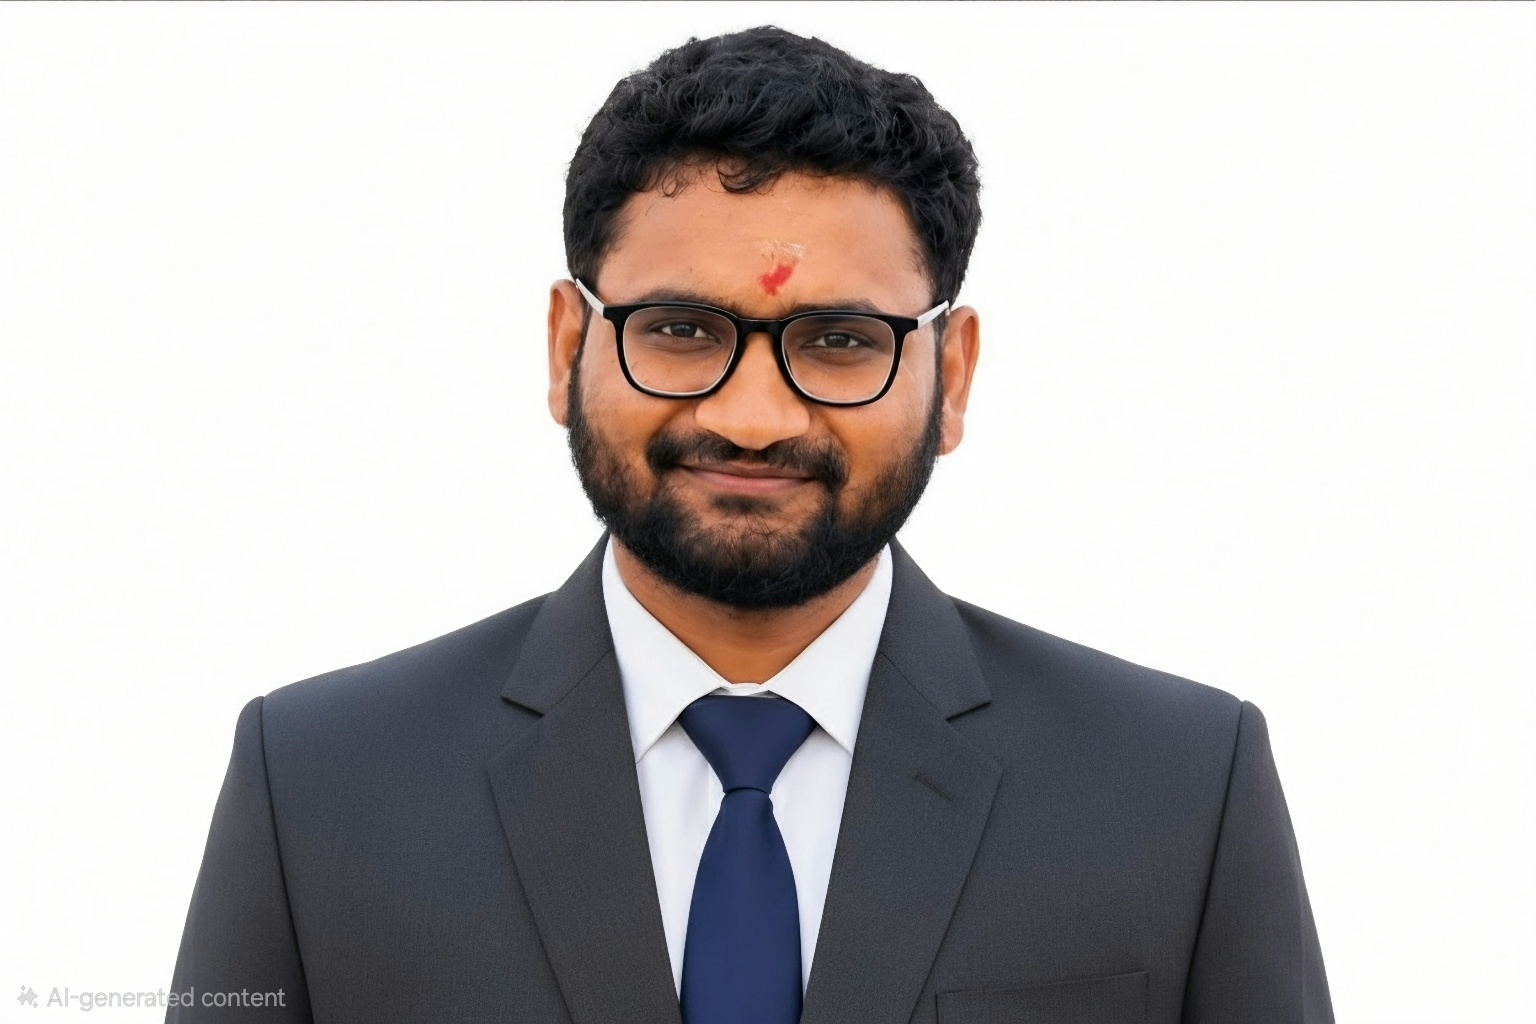
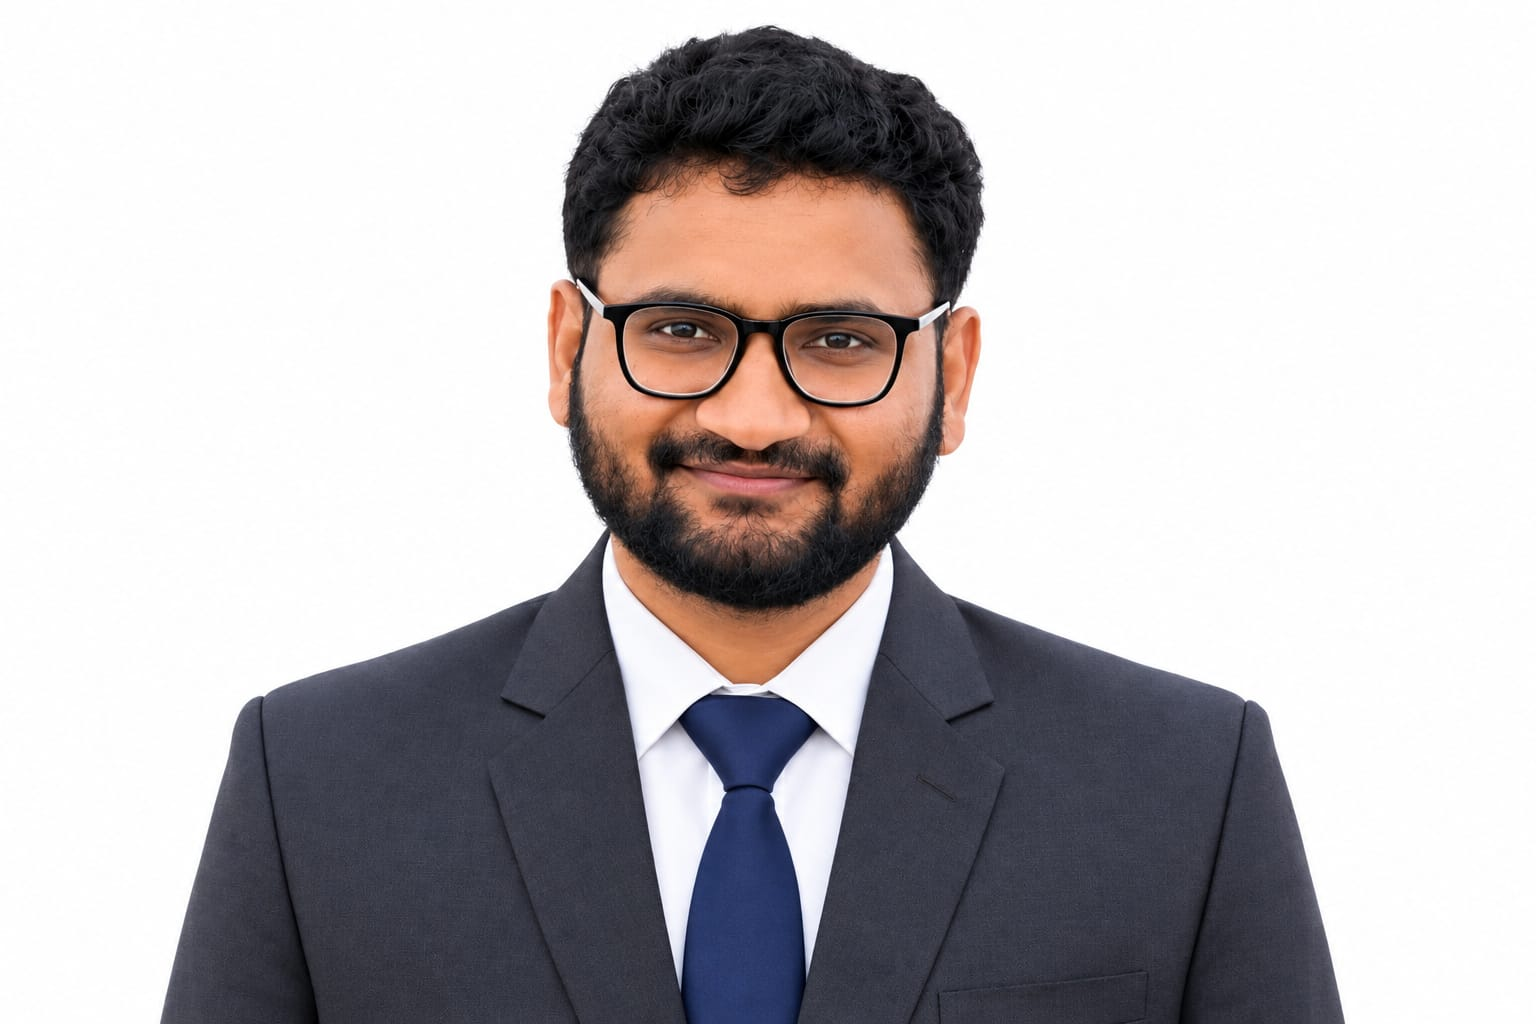
Founder photo -> recent2; remove FSSAI in-process chips from footer

diff --git a/src/components/Footer.jsx b/src/components/Footer.jsx
@@ -21,7 +21,7 @@ export default function Footer() {
               across the Gulf, Europe, North America and Southeast Asia.
             </p>
             <div className="mt-5 flex flex-wrap gap-1.5">
-              {["GST Registered", "IEC · approved", "FSSAI · in process", "WHO-GMP partners"].map((t) => (
+              {["GST Registered", "IEC · approved", "WHO-GMP partners"].map((t) => (
                 <span key={t} className="rounded-md bg-white/5 px-2 py-1 text-[10px] font-bold tracking-wider text-brand-100/70 ring-1 ring-white/10">
                   {t}
                 </span>
@@ -88,7 +88,7 @@ export default function Footer() {
             © {new Date().getFullYear()} {COMPANY.name} (Proprietorship ·
             Telangana). All rights reserved.
           </p>
-          <p>GSTIN {COMPANY.gstin} · IEC approved · FSSAI in process</p>
+          <p>GSTIN {COMPANY.gstin} · IEC approved</p>
         </div>
       </div>
     </footer>
